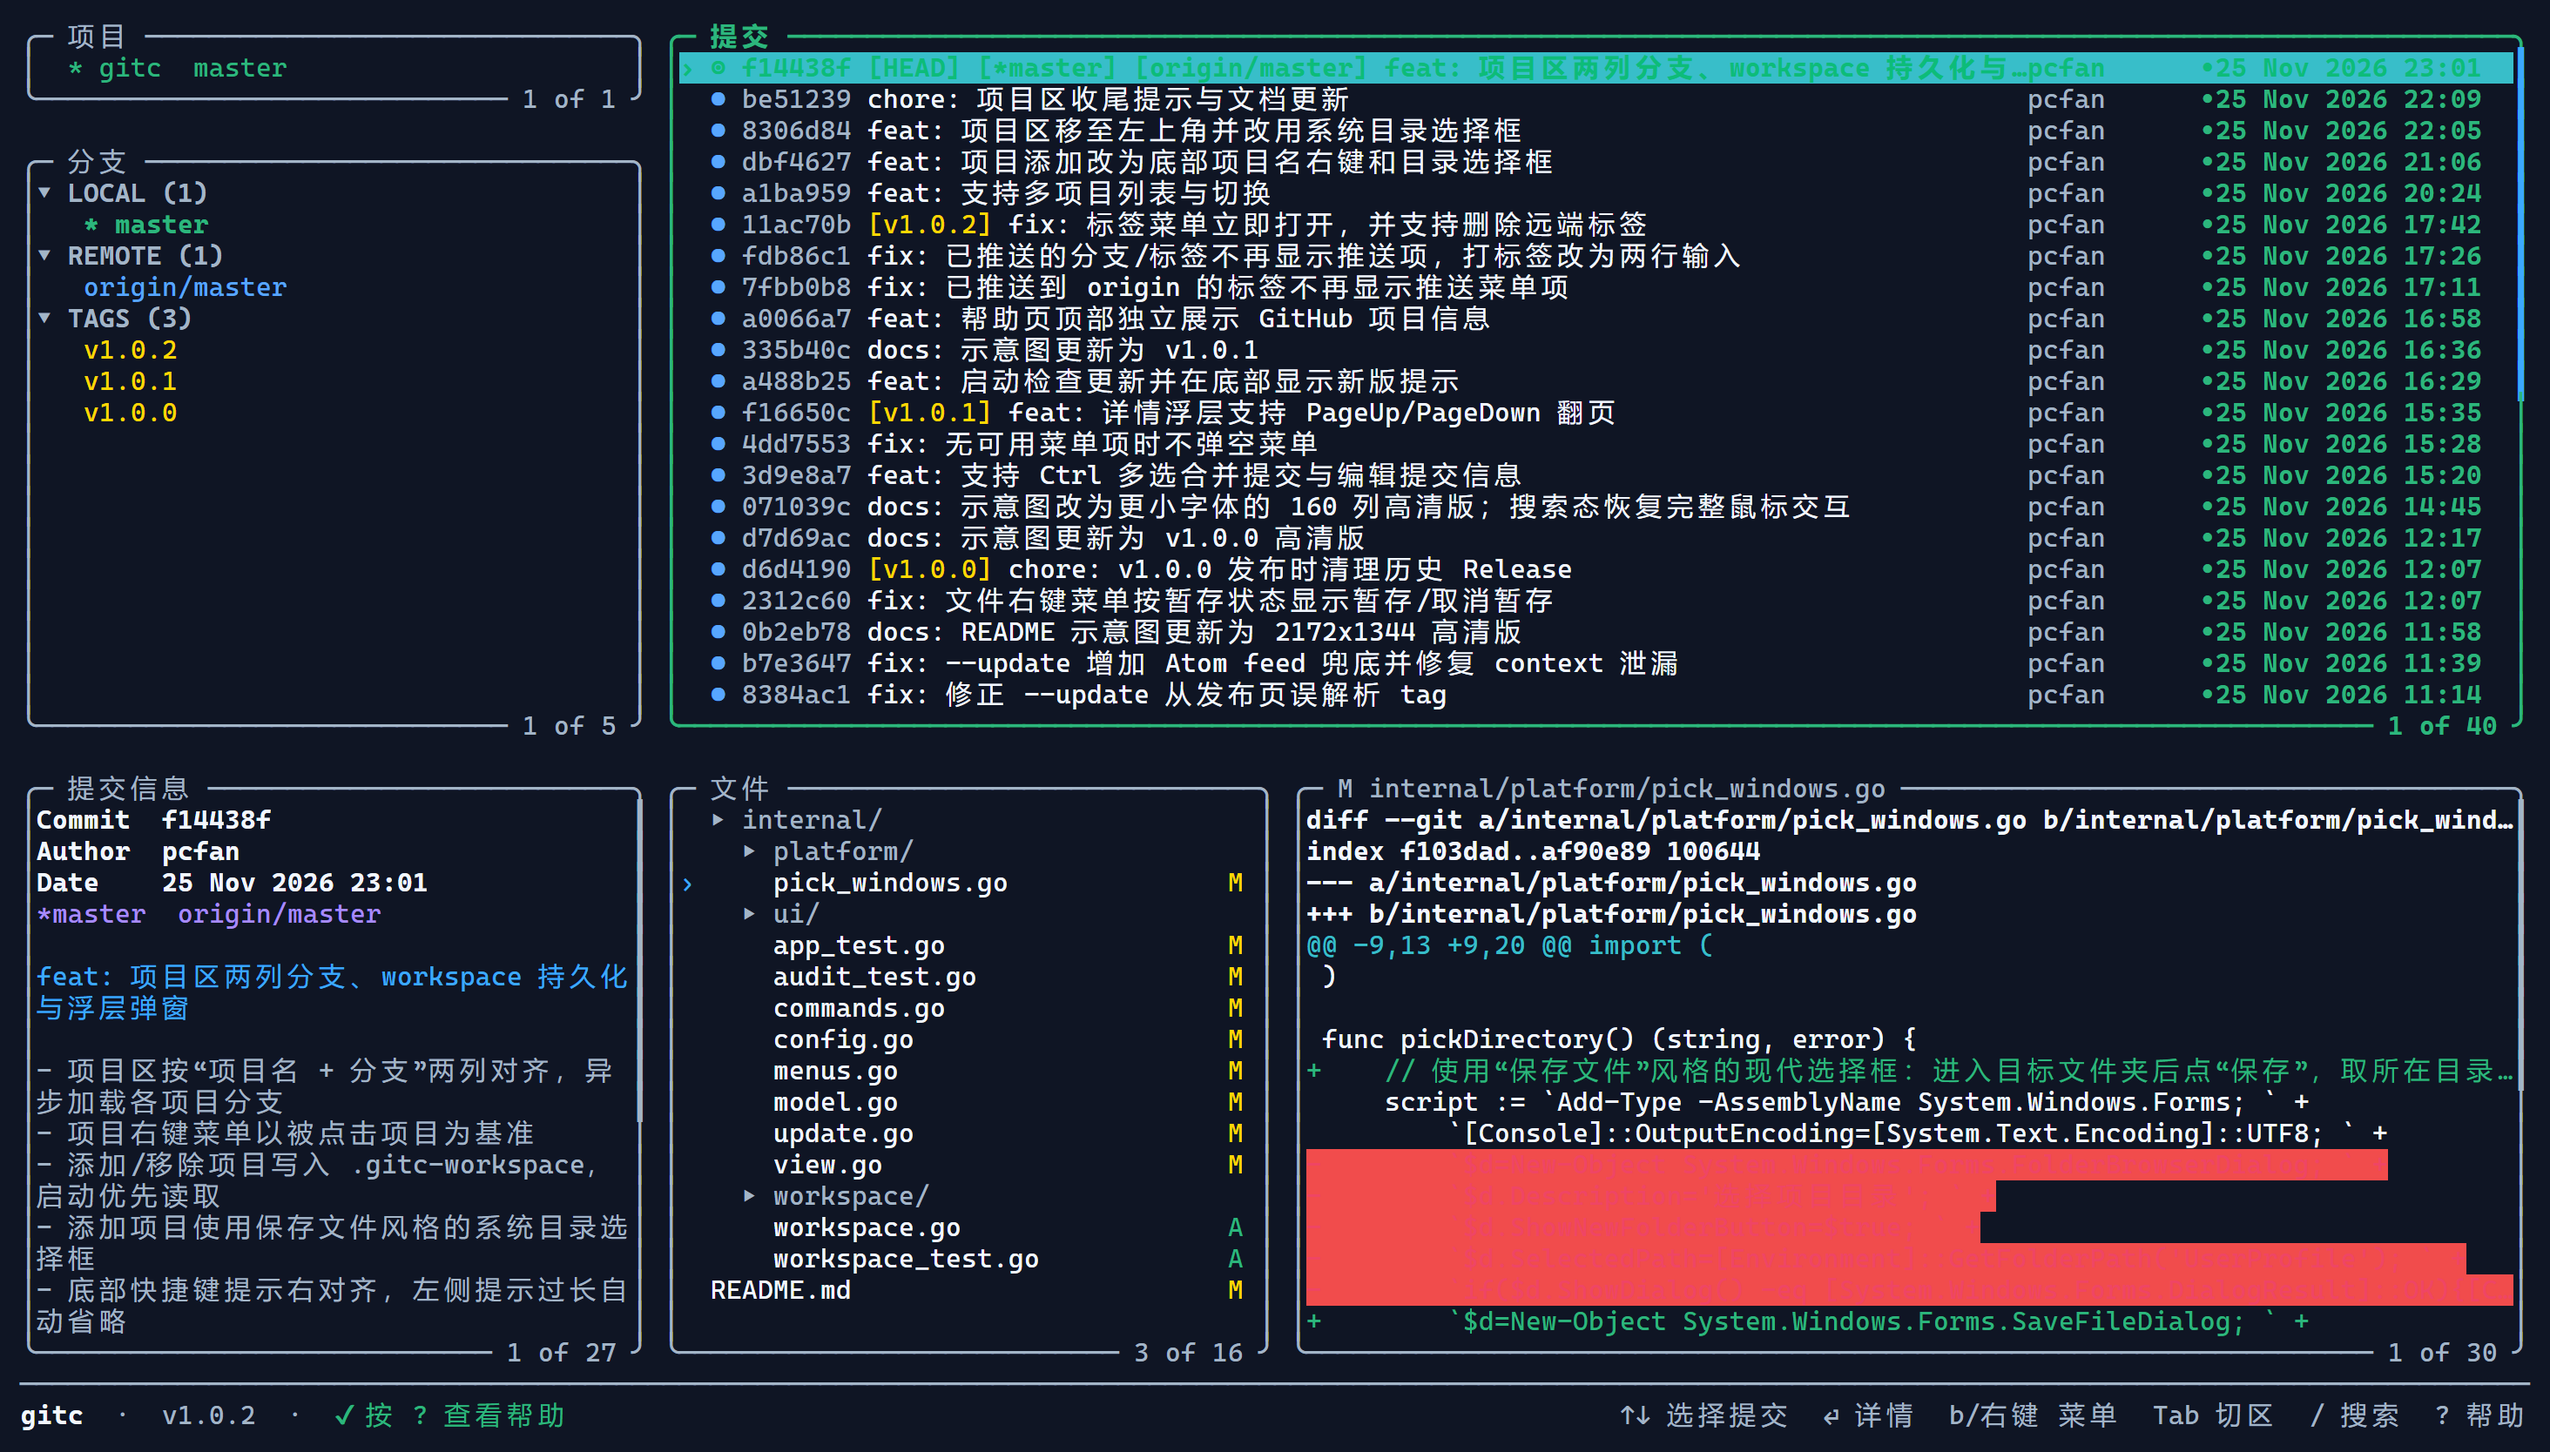
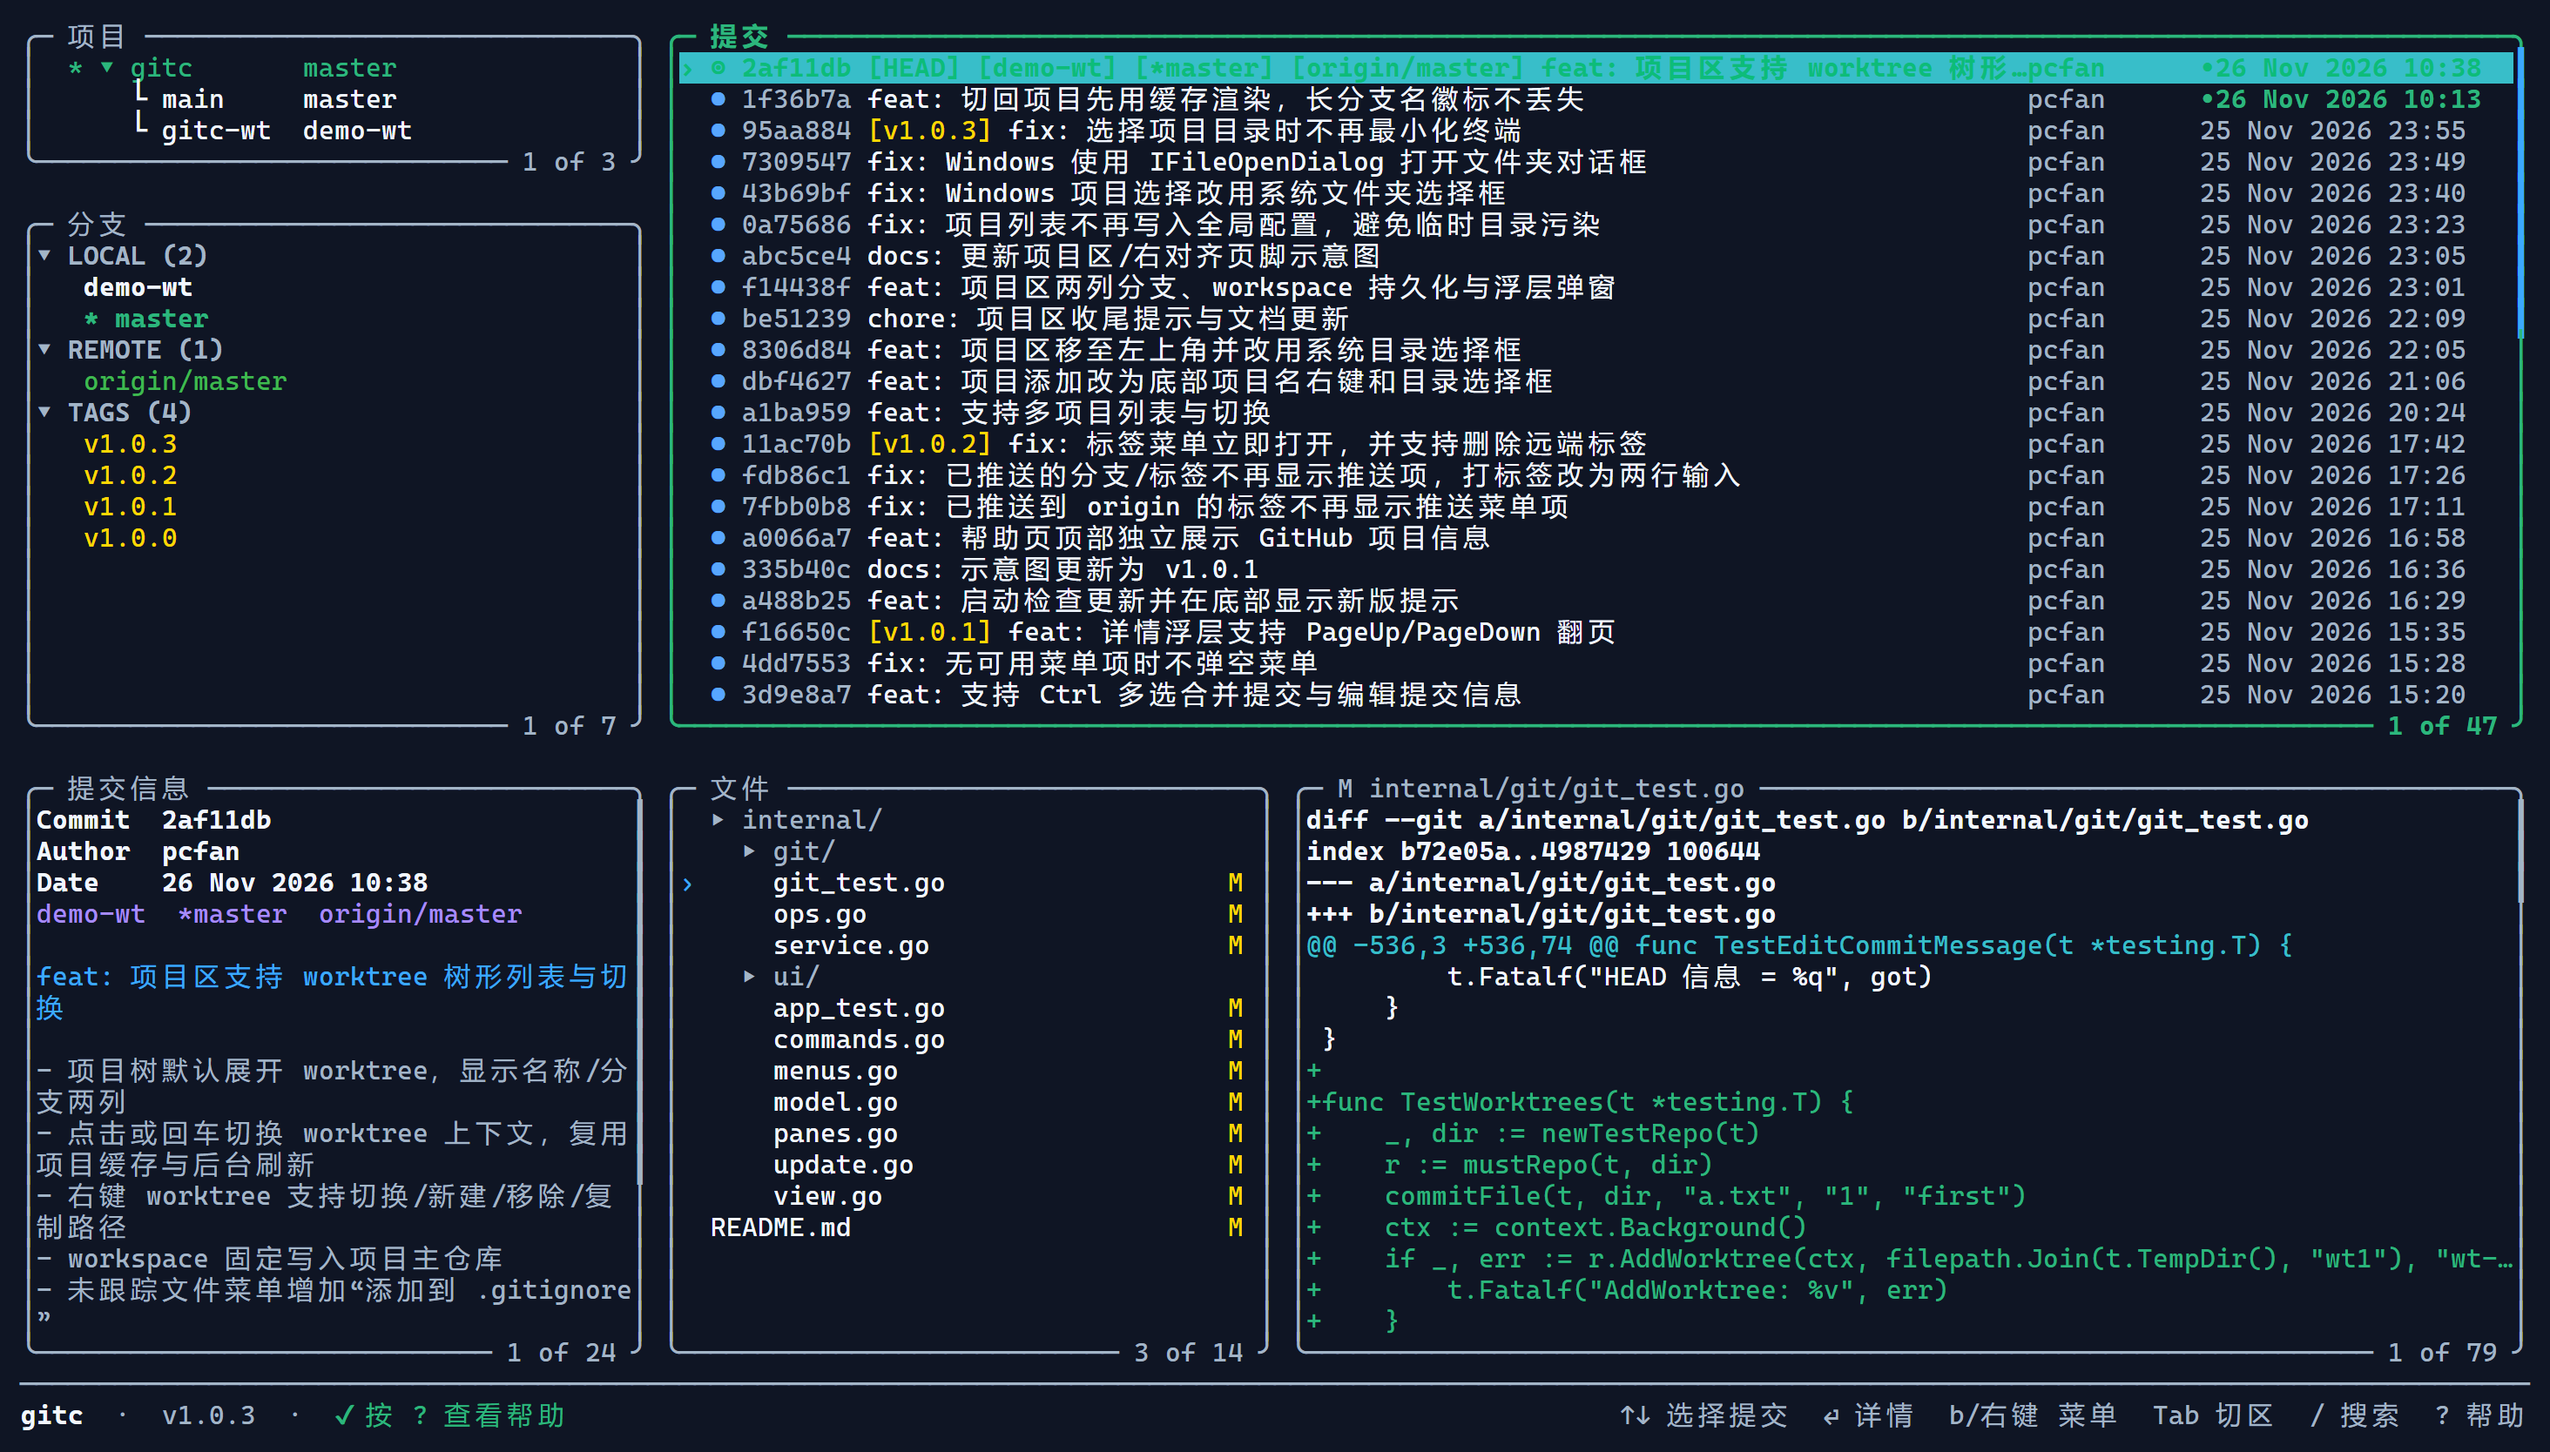
docs: 更新含 worktree 的示意图并补测试

diff --git a/internal/ui/app_test.go b/internal/ui/app_test.go
@@ -2715,3 +2715,44 @@ func TestWorktreeMenu(t *testing.T) {
 		t.Fatalf("子 worktree 缺少移除项: %+v", a.modal.choices)
 	}
 }
+
+// TestWorktreesMsgExpands 加载 worktree 后默认展开，并保留项目选中。
+func TestWorktreesMsgExpands(t *testing.T) {
+	a, _ := newFakeApp(t)
+	root, wt := t.TempDir(), t.TempDir()
+	a.SetProjects([]string{root}, root)
+	a.currentPath = cleanProjectPath(root)
+	a.currentProjectPath = cleanProjectPath(root)
+	a.Update(worktreesMsg{list: map[string][]git.Worktree{
+		cleanProjectPath(root): {
+			{Path: cleanProjectPath(root), Branch: "main", Main: true},
+			{Path: cleanProjectPath(wt), Branch: "wt-branch"},
+		},
+	}})
+	if rows := a.projectRows(); len(rows) != 3 {
+		t.Fatalf("worktree 未默认展开: %+v", rows)
+	}
+	if a.projectSel != 0 {
+		t.Fatalf("项目选中行 = %d", a.projectSel)
+	}
+	v := plainView(a)
+	if !strings.Contains(v, "wt-branch") {
+		t.Fatalf("视图缺少 worktree 分支: %s", v)
+	}
+}
+
+// TestNewWorktreePrompt 新建 worktree 输入框为两行并带默认值。
+func TestNewWorktreePrompt(t *testing.T) {
+	a, _ := newFakeApp(t)
+	p := projectEntry{Name: "demo", Path: cleanProjectPath(t.TempDir())}
+	a.newWorktreePrompt(p)
+	if a.modal == nil || a.modal.kind != modalText {
+		t.Fatalf("未打开 worktree 输入框: %+v", a.modal)
+	}
+	if h := a.modal.text.Height(); h != 2 {
+		t.Fatalf("输入框高度 = %d", h)
+	}
+	if v := a.modal.text.Value(); !strings.Contains(v, "demo-wt") || !strings.Contains(v, "wt/demo") {
+		t.Fatalf("默认值 = %q", v)
+	}
+}
